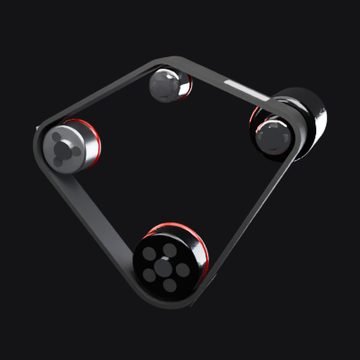
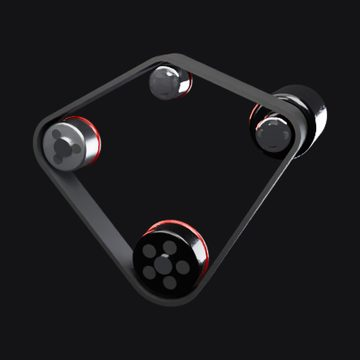
Drive belt animation: plain belt without printed marks
Claude-Session: https://claude.ai/code/session_016WCpqpeQoFZwBkgDdtGb4r

diff --git a/index.html b/index.html
@@ -241,7 +241,7 @@
       <li class="job-card"><video data-src="images/jobs/oil-change.mp4?v=2" poster="images/jobs/oil-change.jpg?v=2" muted loop playsinline preload="none" aria-hidden="true"></video><p class="job-num"><span data-count="213">213</span><span class="plus">+</span></p><h3 class="job-label">Oil changes &amp; services</h3></li>
       <li class="job-card"><video data-src="images/jobs/pressure-sensor.mp4?v=2" poster="images/jobs/pressure-sensor.jpg?v=2" muted loop playsinline preload="none" aria-hidden="true"></video><p class="job-num"><span data-count="140">140</span><span class="plus">+</span></p><h3 class="job-label">Exhaust pressure sensors</h3></li>
       <li class="job-card"><video data-src="images/jobs/camshaft.mp4?v=2" poster="images/jobs/camshaft.jpg?v=2" muted loop playsinline preload="none" aria-hidden="true"></video><p class="job-num"><span data-count="136">136</span><span class="plus">+</span></p><h3 class="job-label">Exhaust camshafts</h3></li>
-      <li class="job-card"><video data-src="images/jobs/drive-belt.mp4?v=2" poster="images/jobs/drive-belt.jpg?v=2" muted loop playsinline preload="none" aria-hidden="true"></video><p class="job-num"><span data-count="131">131</span><span class="plus">+</span></p><h3 class="job-label">Drive belts</h3></li>
+      <li class="job-card"><video data-src="images/jobs/drive-belt.mp4?v=3" poster="images/jobs/drive-belt.jpg?v=3" muted loop playsinline preload="none" aria-hidden="true"></video><p class="job-num"><span data-count="131">131</span><span class="plus">+</span></p><h3 class="job-label">Drive belts</h3></li>
       <li class="job-card"><video data-src="images/jobs/oil-strainer.mp4?v=2" poster="images/jobs/oil-strainer.jpg?v=2" muted loop playsinline preload="none" aria-hidden="true"></video><p class="job-num"><span data-count="96">96</span><span class="plus">+</span></p><h3 class="job-label">Oil strainers &amp; rod bearings</h3></li>
       <li class="job-card"><video data-src="images/jobs/vacuum-pump.mp4" poster="images/jobs/vacuum-pump.jpg" muted loop playsinline preload="none" aria-hidden="true"></video><p class="job-num"><span data-count="71">71</span><span class="plus">+</span></p><h3 class="job-label">Vacuum pumps</h3></li>
       <li class="job-card"><video data-src="images/jobs/timing-chain.mp4?v=2" poster="images/jobs/timing-chain.jpg?v=2" muted loop playsinline preload="none" aria-hidden="true"></video><p class="job-num"><span data-count="51">51</span><span class="plus">+</span></p><h3 class="job-label">Timing chains</h3></li>
